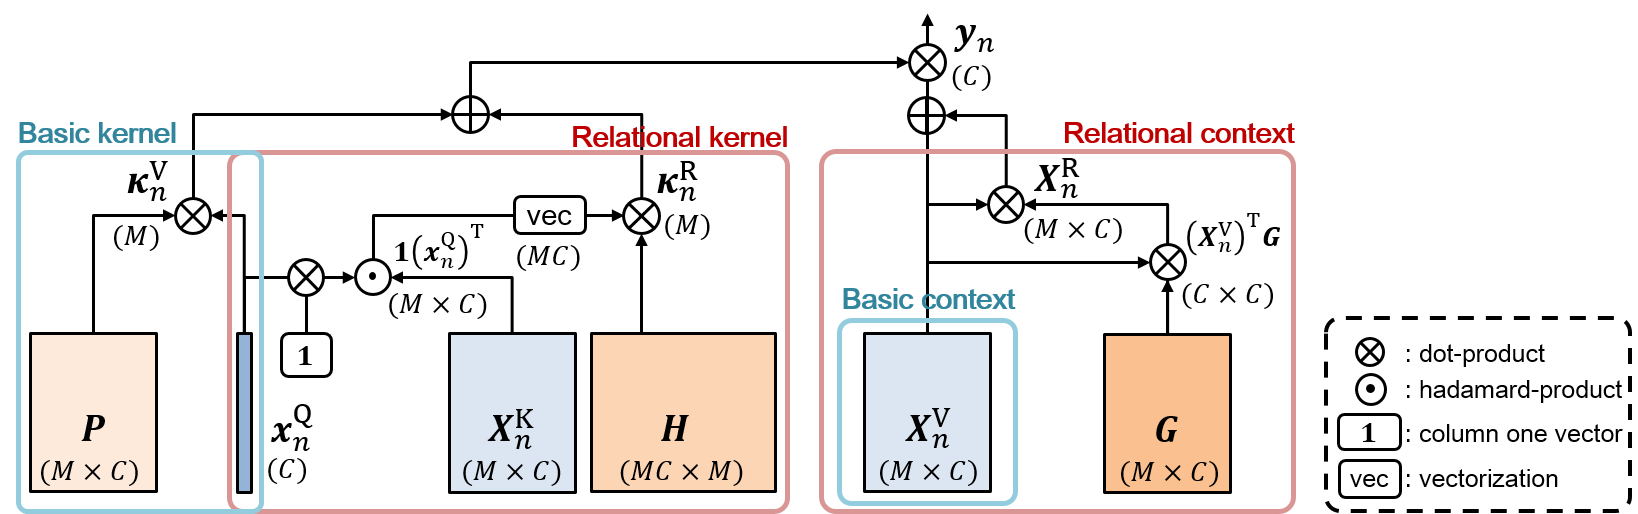
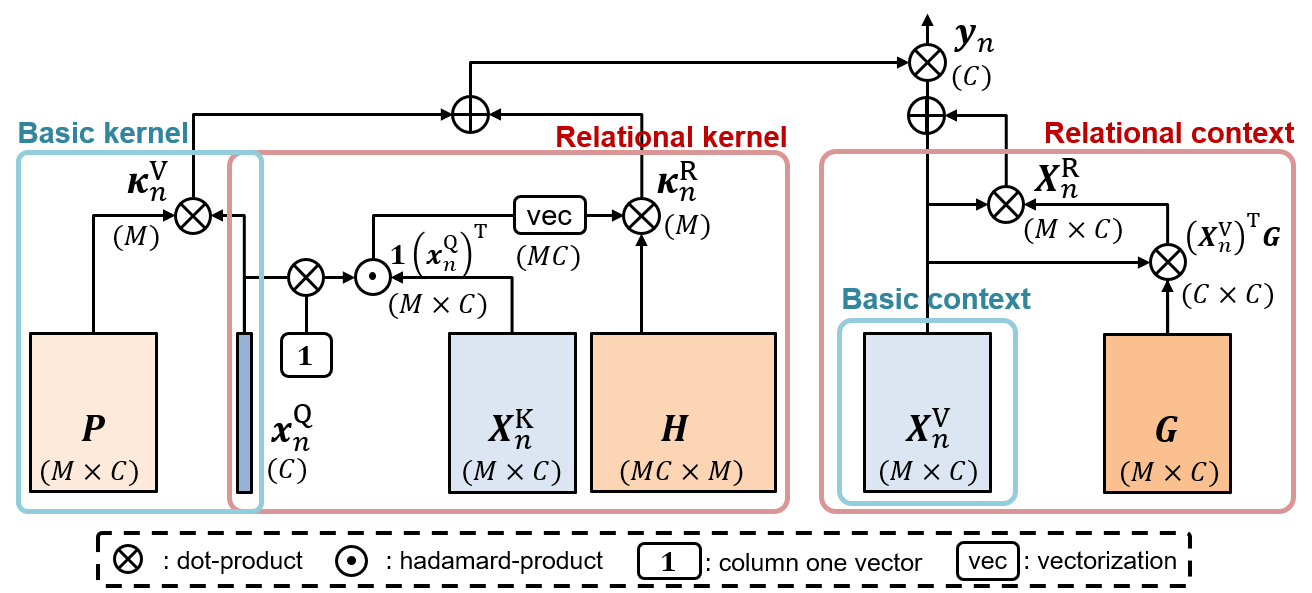
initial commit

diff --git a/README.md b/README.md
@@ -2,9 +2,7 @@
 
 This repository is the official implementation of "Relational Self-Attention: What's Missing in Attention for Video Understanding" by Manjin Kim*, Heeseung Kwon*, Chunyu Wang, Suha Kwak, and Minsu Cho (*equal contribution). 
 
-***
 <img src="./figs/rsa.png" width="100%" height="100%" alt="RSA"></img>
-***
 
 ## Requirements
 
